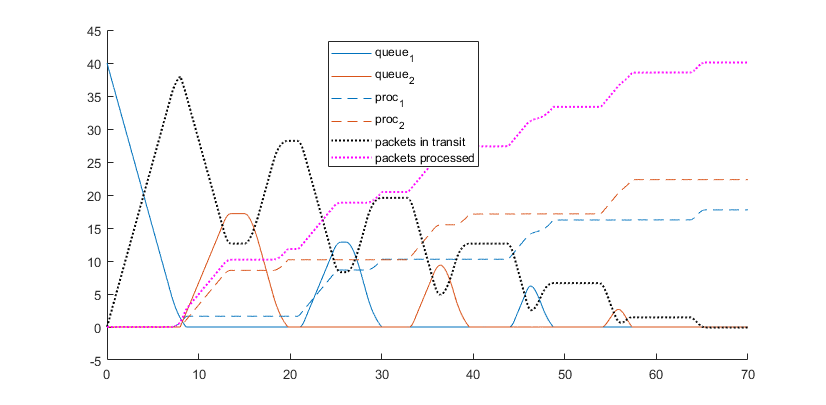
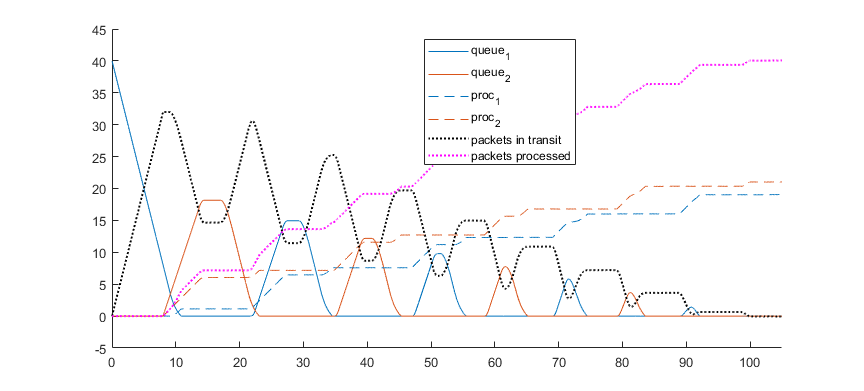
new figures for network

diff --git a/cloud_computing/cloud_test.m b/cloud_computing/cloud_test.m
@@ -1,40 +1,42 @@
 function cloud_test()
 %CLOUD_TEST Tests cloud_main
 
-gbasic = @(x1,x2,~,~,~,~,~) max(0,x1-x2);
+makeg = @(bal) @(x1,x2,rho1,rho2,kappa1,kappa2,u) max(0,rho1*x1/kappa1 - rho2*(x2+bal*rho1*u)/kappa2);
 
-gsafe = @(x1,x2,rho1,~,~,~,u) max(0,x1 - (x2 + rho1*u));
+gbasic = makeg(0);
+
+gsafe = makeg(1);
 
 % Two processors, connected 1 - 2. Basic problem, this is the first example
 % in the paper.
-rho = [5;5];
+rho = [4;4];
 u = [0 1 ; 1 0];
 connected = [0 1 ; 1 0];
-kappa = [3;3];
+kappa = [4;4];
 V0 = [40;0];
-T = 20;
+T = 30;
 tstep = 5e-3;
 
 cloud_pretty(gbasic,rho,u,connected,kappa,V0,T,tstep);
 
 % Two processors, connected 1 - 2. Delay makes the problem really apparent.
-rho = [5;5];
+rho = [4;4];
 u = [0 8 ; 8 0];
 connected = [0 1 ; 1 0];
-kappa = [3;3];
+kappa = [4;4];
 V0 = [40;0];
-T = 70;
+T = 105;
 tstep = 5e-3;
 
 cloud_pretty(gbasic,rho,u,connected,kappa,V0,T,tstep);
 
 % Two processors, connected 1 - 2. No delay.
-rho = [5;5];
+rho = [4;4];
 u = [0 0 ; 0 0];
 connected = [0 1 ; 1 0];
-kappa = [3;3];
+kappa = [4;4];
 V0 = [40;0];
-T = 16;
+T = 30;
 tstep = 5e-3;
 
 cloud_pretty(gbasic,rho,u,connected,kappa,V0,T,tstep);
@@ -43,26 +45,77 @@ cloud_pretty(gbasic,rho,u,connected,kappa,V0,T,tstep);
 
 % Two processors, connected 1 - 2. Basic problem, this is the first example
 % in the paper.
-rho = [5;5];
+rho = [4;4];
 u = [0 1 ; 1 0];
 connected = [0 1 ; 1 0];
-kappa = [3;3];
+kappa = [4;4];
 V0 = [40;0];
-T = 20;
+T = 30;
 tstep = 5e-3;
 
 cloud_pretty(gsafe,rho,u,connected,kappa,V0,T,tstep);
 
 % Two processors, connected 1 - 2. Delay makes the problem really apparent.
-rho = [5;5];
+rho = [4;4];
 u = [0 8 ; 8 0];
 connected = [0 1 ; 1 0];
-kappa = [3;3];
+kappa = [4;4];
 V0 = [40;0];
-T = 70;
+T = 105;
 tstep = 5e-3;
 
 cloud_pretty(gsafe,rho,u,connected,kappa,V0,T,tstep);
+
+%% BEGIN BALANCE EXPERIMENTS
+
+% Two processors, connected 1 - 2. Basic problem, this is the first example
+% in the paper.
+rho = [4;4];
+u = [0 1 ; 1 0];
+connected = [0 1 ; 1 0];
+kappa = [4;4];
+V0 = [40;0];
+T = 30;
+tstep = 5e-3;
+balmin=0;
+balmax=4;
+balstep=0.03;
+
+[B,P] = balance_optimizer(rho,u,connected,kappa, ...
+    V0,T,tstep,balmin,balmax,balstep);
+
+figure();
+plot(B,P);
+xlabel("Safety parameter");
+ylabel("Makespan (time)");
+
+[~,i] = min(P);
+
+cloud_pretty(makeg(B(i)),rho,u,connected,kappa,V0,T,tstep);
+
+% Two processors, connected 1 - 2. Delay makes the problem really apparent.
+rho = [4;4];
+u = [0 8 ; 8 0];
+connected = [0 1 ; 1 0];
+kappa = [4;4];
+V0 = [40;0];
+T = 105;
+tstep = 5e-3;
+balmin=0;
+balmax=1.5;
+balstep=0.02;
+
+[B,P] = balance_optimizer(rho,u,connected,kappa, ...
+    V0,T,tstep,balmin,balmax,balstep);
+
+figure();
+plot(B,P);
+xlabel("Safety parameter");
+ylabel("Makespan (time)");
+
+[~,i] = min(P);
+
+cloud_pretty(makeg(B(i)),rho,u,connected,kappa,V0,T,tstep);
 
 return;
 
@@ -82,7 +135,7 @@ cloud_pretty(gbasic,rho,u,connected,kappa,V0,T,tstep);
 rho = [1;1];
 u = [0 12 ; 12 0];
 connected = [0 1 ; 1 0];
-kappa = [3;3];
+kappa = [4;4];
 V0 = [20;0];
 T = 180;
 tstep = 5e-3;
@@ -93,7 +146,7 @@ cloud_pretty(gbasic,rho,u,connected,kappa,V0,T,tstep);
 rho = [1;1];
 u = [0 0 ; 0 0];
 connected = [0 1 ; 1 0];
-kappa = [3;3];
+kappa = [4;4];
 V0 = [20;0];
 T = 180;
 tstep = 5e-3;

diff --git a/cloud_computing/balance_optimizer.m b/cloud_computing/balance_optimizer.m
@@ -1,0 +1,26 @@
+function [B,P] = balance_optimizer(rho,u,connected,kappa,V0,T,tstep, ...
+    balmin,balmax,balstep)
+%BALANCE_OPTIMIZER Optimizes the balance between oversending and safety
+%INPUTS
+%see cloud_main inputs
+%uses g = gbal
+%runs balance param from balmin:balstep:balmax
+%OUTPUTS
+%vector of balance and performance params
+
+
+makeg = @(bal) @(x1,x2,rho1,rho2,kappa1,kappa2,u) max(0,rho1*x1/kappa1 - (rho2*x2/kappa2 + bal*rho1*u));
+
+B=balmin:balstep:balmax;
+P = zeros(1,size(B,2));
+i = 1;
+for bal=B
+    [Time,V] = cloud_main(makeg(bal),rho,u,connected,kappa,V0,T,tstep);
+    N = size(V,1) / 2;
+    V = sum(V(1:N,:));
+    P(i) = Time(find(V>0,1,"last")+1);
+    i = i + 1;
+end
+
+end
+

diff --git a/cloud_computing/cloud_pretty.m b/cloud_computing/cloud_pretty.m
@@ -27,6 +27,7 @@ plot(time_domain, sum(V0)-sumV,'LineStyle',':','Color','Black', ...
 plot(time_domain, sum(V(N+1:2*N,:)),'LineStyle',':','Color','Magenta', ...
     'LineWidth',1.5);
 legend(legend_names,'Location','north');
+xlim([0 T]);
 hold off;
 
 end
